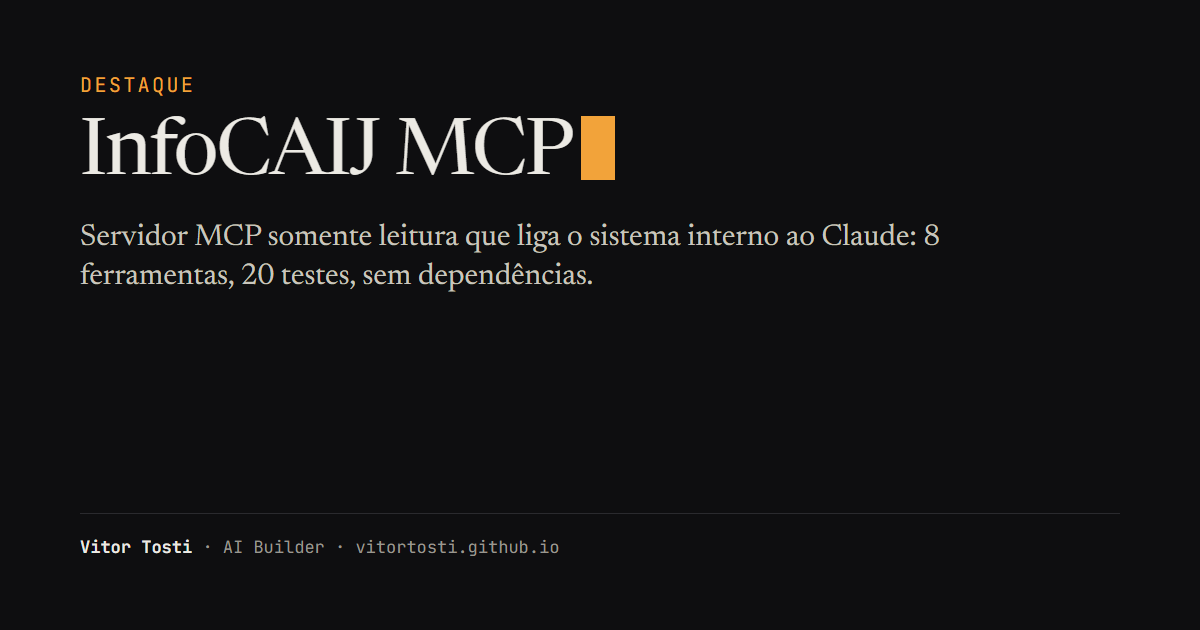
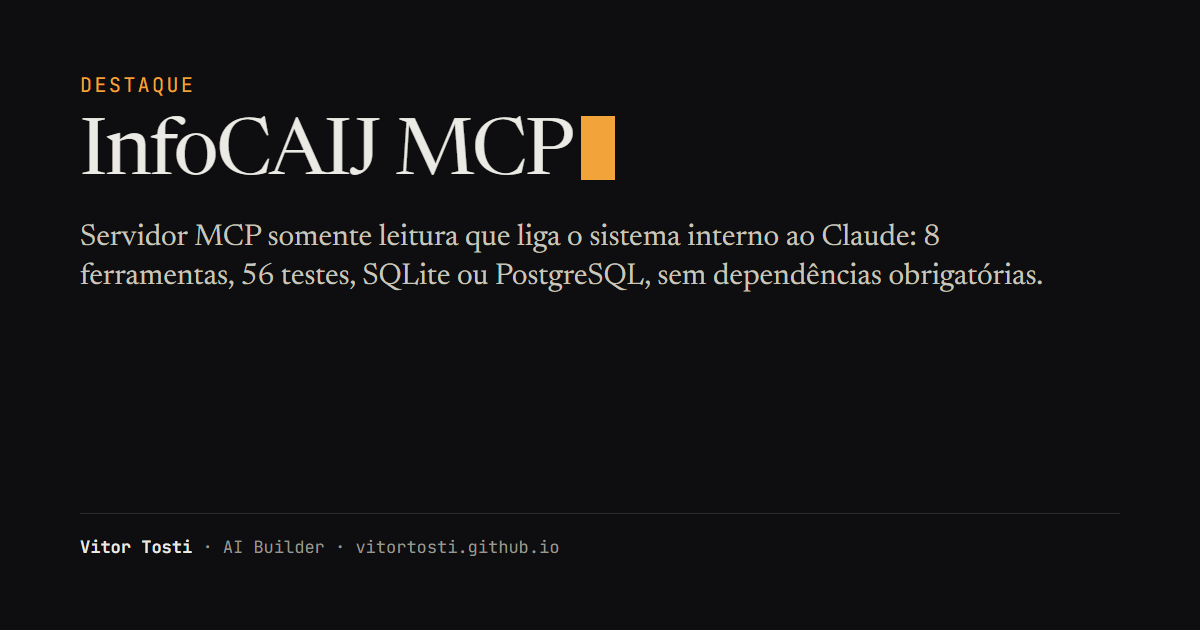
InfoCAIJ MCP: 56 testes, saída estruturada, horas úteis e PostgreSQL no portfólio

Changed region(s): [[0.2775, 0.4222, 0.8633, 0.4524], [0.185, 0.4222, 0.2467, 0.4524]]

diff --git a/src/data/projetos.ts b/src/data/projetos.ts
@@ -19,7 +19,7 @@ export const infocaijMcp: Projeto = {
   problema:
     'A gestão da CAIJ Informática precisava abrir telas e montar planilhas para saber onde a fila de máquinas travava.',
   solucao:
-    'Um servidor MCP (Model Context Protocol) somente leitura que conecta o sistema interno InfoCAIJ ao Claude. São 8 ferramentas, 3 prompts prontos (relatório semanal, diagnóstico de gargalo e status para vendedor) e 20 testes. Zero dependências: o protocolo é implementado direto em TypeScript, e o banco abre em modo somente leitura.',
+    'Um servidor MCP (Model Context Protocol) somente leitura que conecta o sistema interno InfoCAIJ ao Claude. São 8 ferramentas, 3 prompts prontos (relatório semanal, diagnóstico de gargalo e status para vendedor) e 56 testes. Cada ferramenta devolve também saída estruturada com esquema, e os tempos podem ser medidos em horas úteis. Lê SQLite ou PostgreSQL, sempre em modo somente leitura. Sem dependências obrigatórias: o protocolo é implementado direto em TypeScript, e o driver do PostgreSQL é opcional.',
   rastro: [
     {
       tipo: 'pergunta',
@@ -37,7 +37,7 @@ export const infocaijMcp: Projeto = {
       texto: 'Mediana de 48 minutos entre a venda registrada e a máquina pronta.',
       aviso: '93 de 135 máquinas pularam a etapa "Pronta".',
     },
-    { tipo: 'avaliacao', itens: ['20/20 testes', 'somente leitura', '0 dados de clientes'] },
+    { tipo: 'avaliacao', itens: ['56/56 testes', 'somente leitura', '0 dados de clientes'] },
   ],
   correcoes: [
     {

diff --git a/src/data/stack.ts b/src/data/stack.ts
@@ -2,7 +2,7 @@
 export type LinhaStack = { slug: string; nome: string; itens: string[]; itensEn: string[] };
 
 export const stackPorProjeto: LinhaStack[] = [
-  { slug: 'infocaij-mcp', nome: 'InfoCAIJ MCP', itens: ['MCP (tool use)', 'TypeScript', 'Banco somente leitura', 'Sem dependências', '20 testes'], itensEn: ['MCP (tool use)', 'TypeScript', 'Read-only database', 'Zero dependencies', '20 tests'] },
+  { slug: 'infocaij-mcp', nome: 'InfoCAIJ MCP', itens: ['MCP (tool use)', 'TypeScript', 'SQLite e PostgreSQL somente leitura', 'Saída estruturada', 'Horas úteis', '56 testes'], itensEn: ['MCP (tool use)', 'TypeScript', 'Read-only SQLite and PostgreSQL', 'Structured output', 'Business hours', '56 tests'] },
   { slug: 'kairo', nome: 'Kairo', itens: ['Next.js 16', 'TypeScript', 'Tailwind 4', 'Supabase (Postgres, Auth, RLS)', 'Vitest', 'Playwright', 'pgTAP', 'Time de agentes de IA'], itensEn: ['Next.js 16', 'TypeScript', 'Tailwind 4', 'Supabase (Postgres, Auth, RLS)', 'Vitest', 'Playwright', 'pgTAP', 'AI agent team'] },
   { slug: 'cardapio-em-1-minuto', nome: 'Cardápio em 1 minuto', itens: ['Gemini', 'Saída em JSON com esquema', 'Avaliação com gabarito'], itensEn: ['Gemini', 'Schema-validated JSON output', 'Ground-truth evaluation'] },
   { slug: 'infocaij', nome: 'InfoCAIJ', itens: ['React', 'TypeScript', 'Node.js', 'Express', 'Zod', 'SQLite / PostgreSQL', 'Vitest', 'Deploy em VPS'], itensEn: ['React', 'TypeScript', 'Node.js', 'Express', 'Zod', 'SQLite / PostgreSQL', 'Vitest', 'VPS deploy'] },

diff --git a/src/i18n/en.ts b/src/i18n/en.ts
@@ -36,7 +36,7 @@ export const en = {
       status: 'featured',
       problem: 'Management at CAIJ Informática had to open screens and build spreadsheets to find where the machine queue got stuck.',
       solution:
-        'A read-only MCP (Model Context Protocol) server that connects the internal InfoCAIJ system to Claude. 8 tools, 3 ready-made prompts and 20 tests. Zero dependencies: the protocol is implemented directly in TypeScript and the database opens read-only.',
+        'A read-only MCP (Model Context Protocol) server that connects the internal InfoCAIJ system to Claude. 8 tools, 3 ready-made prompts and 56 tests. Every tool also returns schema-described structured output, and times can be measured in business hours. Reads SQLite or PostgreSQL, always read-only. No required dependencies: the protocol is implemented directly in TypeScript and the PostgreSQL driver is optional.',
       results: [
         'Found that 93 of 135 machines skipped the "Ready" stage',
         'Bottleneck was picked by median (0.8 h); real problem was a long tail in "Awaiting pickup" (p90 77.8 h). Now picked by total hours, with a long-tail regression test',

diff --git a/src/data/cartoes.ts b/src/data/cartoes.ts
@@ -22,7 +22,7 @@ export const cartoes: Cartao[] = [
     nome: mcp.nome,
     status: 'destaque',
     resumo:
-      'Servidor MCP somente leitura que liga o sistema interno InfoCAIJ ao Claude: 8 ferramentas, 3 prompts prontos e 20 testes, sem dependências.',
+      'Servidor MCP somente leitura que liga o sistema interno InfoCAIJ ao Claude: 8 ferramentas com saída estruturada, horas úteis, SQLite ou PostgreSQL e 56 testes, sem dependências obrigatórias.',
     fatos: [
       '✗ gargalo escolhido pela mediana (0,8 h) → ✓ pela soma de horas, com teste da cauda longa',
       '✗ descrição ambígua de ferramenta → ✓ passou a dizer qual data define o período',

diff --git a/src/data/impacto.ts b/src/data/impacto.ts
@@ -9,7 +9,7 @@ export const impacto: Record<string, Impacto> = {
       { v: '93 de 135', r: 'máquinas pulavam a etapa "Pronta"' },
       { v: '77,8 h', r: 'p90 na etapa que a mediana escondia' },
       { v: '8', r: 'ferramentas e 3 prompts prontos' },
-      { v: '20', r: 'testes, incluindo o de vazamento' },
+      { v: '56', r: 'testes, incluindo o de vazamento' },
     ],
   },
   kairo: {
